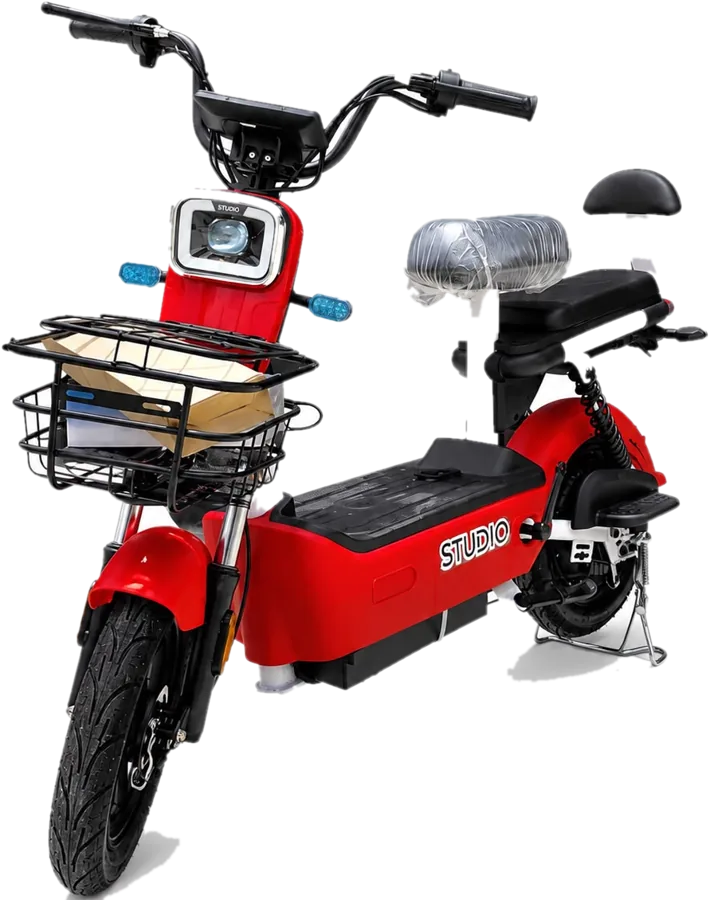
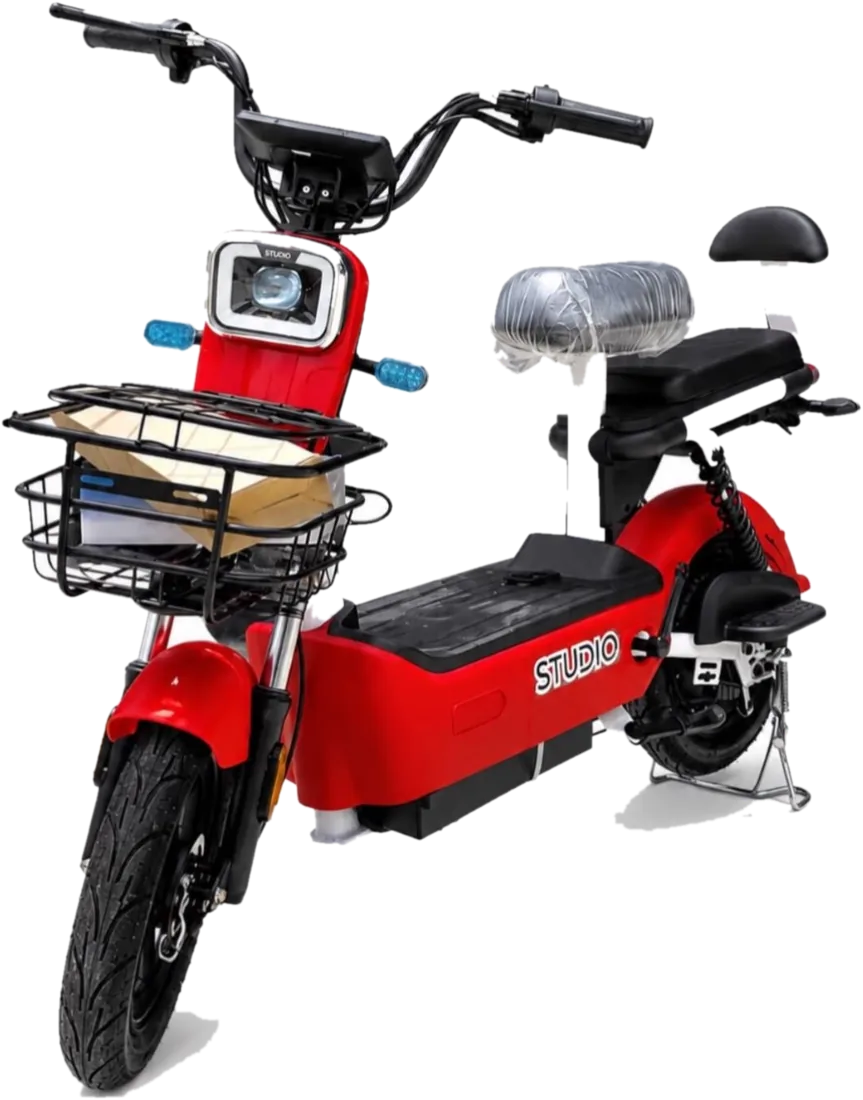
Página pública: fotos de mejor calidad y galería Destacados con los pósters de STUDIO
Claude-Session: https://claude.ai/code/session_01XsqePqNsr899Mjtsv3s8DJ

diff --git a/tienda.html b/tienda.html
@@ -108,6 +108,7 @@ header .btn{height:40px;padding:0 16px;font-size:14px}
 .mini[hidden]{display:none}
 .ctas{display:flex;gap:8px;flex-wrap:wrap}
 .ctas .btn{height:46px;padding:0 18px;font-size:14.5px}
+.ctas .btn[hidden]{display:none}
 .barra-movil{display:none}
 @media (max-width:980px){
   .confianza .wrap{grid-template-columns:1fr 1fr}
@@ -124,6 +125,25 @@ header .btn{height:40px;padding:0 16px;font-size:14px}
   .confianza span{font-size:11.5px}
   .ctas{width:100%}.ctas .btn{flex:1;justify-content:center;padding:0 12px}
 }
+
+/* ── Destacados: pósters publicitarios de STUDIO; cada uno lleva a su artículo ── */
+.destacados{padding:64px 0 24px}
+.destacados .wrap{display:flex;align-items:flex-end;justify-content:space-between;gap:16px;margin-bottom:18px}
+.flechas{display:flex;gap:8px}
+.flechas button{width:42px;height:42px;border-radius:50%;border:1px solid var(--linea2);background:rgba(255,255,255,.03);display:grid;place-items:center;font-size:20px;transition:border-color .2s,background .2s}
+.flechas button:hover{border-color:var(--oro);background:rgba(201,162,39,.1)}
+.carrusel{display:flex;gap:14px;overflow-x:auto;scroll-snap-type:x mandatory;scroll-behavior:smooth;padding:6px 16px 18px;scrollbar-width:none}
+.carrusel::-webkit-scrollbar{display:none}
+@media (min-width:1232px){.carrusel{padding-inline:calc((100vw - 1200px) / 2)}}
+.poster{position:relative;flex:none;width:clamp(230px,24vw,290px);aspect-ratio:720/897;border-radius:18px;overflow:hidden;scroll-snap-align:start;border:1px solid var(--linea);background:var(--panel);box-shadow:0 20px 40px -24px rgba(0,0,0,.8);transition:transform .45s var(--resorte),border-color .3s,box-shadow .3s;text-decoration:none}
+.poster img{width:100%;height:100%;object-fit:cover;transition:transform .8s var(--ease)}
+.poster span{position:absolute;left:12px;right:12px;bottom:12px;display:flex;align-items:center;justify-content:space-between;height:40px;padding:0 14px;border-radius:999px;background:rgba(7,8,10,.72);backdrop-filter:blur(10px);-webkit-backdrop-filter:blur(10px);border:1px solid var(--linea2);font:600 13px var(--sans);color:var(--texto);opacity:0;translate:0 8px;transition:opacity .3s,translate .3s var(--ease)}
+.poster:hover{transform:translateY(-6px);border-color:rgba(201,162,39,.55);box-shadow:0 26px 50px -20px rgba(201,162,39,.35)}
+.poster:hover img{transform:scale(1.04)}
+.poster:hover span,.poster:focus-visible span{opacity:1;translate:0 0}
+@media (hover:none){.poster span{opacity:1;translate:0 0}}
+@media (max-width:620px){.poster{width:72vw}.flechas{display:none}.destacados{padding:48px 0 16px}}
+@media (max-width:620px){.explora .wrap{flex-direction:column;align-items:flex-start}.filtros{flex-wrap:nowrap;overflow-x:auto;max-width:100%;scrollbar-width:none}.filtros button{flex:none}}
 
 /* ── Explora: tira de miniaturas que lleva a cada presentación ── */
 .explora{padding:8px 0 40px}
@@ -335,6 +355,23 @@ footer a:hover{color:var(--texto)}
     </div>
   </section>
 
+  <section class="destacados" aria-labelledby="h-dest">
+    <div class="wrap"><div><span class="eyebrow">Destacados</span><h2 id="h-dest" style="margin-top:10px">Lo nuevo en STUDIO</h2></div>
+      <div class="flechas"><button type="button" data-dir="-1" aria-label="Anterior"><i class="ti ti-chevron-left" aria-hidden="true"></i></button><button type="button" data-dir="1" aria-label="Siguiente"><i class="ti ti-chevron-right" aria-hidden="true"></i></button></div></div>
+    <div class="carrusel" id="carrusel">
+      <a class="poster" href="#p-lq-n9"><img src="img/tienda/destacados/serie1000-blanco-azul.webp" alt="STUDIO · Serie 1000W" width="720" height="897" loading="lazy" decoding="async"><span>Serie 1000W <i class="ti ti-arrow-right" aria-hidden="true"></i></span></a>
+      <a class="poster" href="#p-lq-n9"><img src="img/tienda/destacados/lq-n9-potencia.webp" alt="STUDIO · LQ-N9" width="720" height="897" loading="lazy" decoding="async"><span>LQ-N9 <i class="ti ti-arrow-right" aria-hidden="true"></i></span></a>
+      <a class="poster" href="#p-lq-h8"><img src="img/tienda/destacados/serie1000-rojo.webp" alt="STUDIO · LQ-H8" width="720" height="897" loading="lazy" decoding="async"><span>LQ-H8 <i class="ti ti-arrow-right" aria-hidden="true"></i></span></a>
+      <a class="poster" href="#movilidad"><img src="img/tienda/destacados/serie1000-blanco.webp" alt="STUDIO · Serie 1000W" width="720" height="897" loading="lazy" decoding="async"><span>Serie 1000W <i class="ti ti-arrow-right" aria-hidden="true"></i></span></a>
+      <a class="poster" href="#p-lq-hld"><img src="img/tienda/destacados/lq-hld-muevete.webp" alt="STUDIO · LQ-HLD" width="720" height="897" loading="lazy" decoding="async"><span>LQ-HLD <i class="ti ti-arrow-right" aria-hidden="true"></i></span></a>
+      <a class="poster" href="#p-lq-xbw"><img src="img/tienda/destacados/lq-xbw.webp" alt="STUDIO · LQ-XBW" width="720" height="897" loading="lazy" decoding="async"><span>LQ-XBW <i class="ti ti-arrow-right" aria-hidden="true"></i></span></a>
+      <a class="poster" href="#p-smart-lock-facial"><img src="img/tienda/destacados/smart-lock.webp" alt="STUDIO · Smart Lock" width="720" height="897" loading="lazy" decoding="async"><span>Smart Lock <i class="ti ti-arrow-right" aria-hidden="true"></i></span></a>
+      <a class="poster" href="#p-nevera-cw"><img src="img/tienda/destacados/neveras.webp" alt="STUDIO · Neveras CW" width="720" height="897" loading="lazy" decoding="async"><span>Neveras CW <i class="ti ti-arrow-right" aria-hidden="true"></i></span></a>
+      <a class="poster" href="#p-ventilador-de-techo-42"><img src="img/tienda/destacados/ventilador-cristal.webp" alt="STUDIO · Ventilador cristal" width="720" height="897" loading="lazy" decoding="async"><span>Ventilador cristal <i class="ti ti-arrow-right" aria-hidden="true"></i></span></a>
+      <a class="poster" href="#p-ventilador-de-techo-42"><img src="img/tienda/destacados/ventilador-madera.webp" alt="STUDIO · Ventilador madera" width="720" height="897" loading="lazy" decoding="async"><span>Ventilador madera <i class="ti ti-arrow-right" aria-hidden="true"></i></span></a>
+    </div>
+  </section>
+
   <section id="explora" class="explora" aria-labelledby="h-exp">
     <div class="wrap"><span class="eyebrow" id="h-exp">Explora el catálogo · toca un artículo</span>
       <div class="filtros" role="group" aria-label="Filtrar por categoría" id="filtros"></div></div>
@@ -541,6 +578,7 @@ document.addEventListener('click', e => {
 });
 document.querySelectorAll('.js-wa').forEach(a => { a.href = waLink(a.dataset.msg || 'Hola STUDIO, quiero información'); a.target = '_blank'; a.rel = 'noopener'; });
 document.getElementById('anio').textContent = new Date().getFullYear();
+document.querySelectorAll('.flechas button').forEach(b => b.addEventListener('click', () => { const c = document.getElementById('carrusel'); c.scrollBy({ left: +b.dataset.dir * Math.max(260, c.clientWidth * .8) }); }));
 // «Abierto ahora» con el horario real (lunes a sábado 8:30–6:30, hora de Santo Domingo).
 (function () {
   try {

diff --git a/docs/bitacora/2026-09-25-0545-claude.md b/docs/bitacora/2026-09-25-0545-claude.md
@@ -1,0 +1,44 @@
+# 2026-09-25 05:45 — Página pública: fotos de mejor calidad y galería «Destacados» (Claude)
+
+El dueño mandó tres PDF (Coco_1, Coco_2 y Coco_3, escaneados con CamScanner) con imágenes de mejor
+calidad para reemplazar las anteriores.
+
+## Qué hay en los PDF
+- **Coco_1**: 5 fotos de las monta cargas (azul y roja, varios ángulos; un póster de «2 botellas
+  hidráulicas»).
+- **Coco_2**: 18 fotos de producto sobre blanco puro: los 8 scooters, la nevera, la TV, el aire,
+  las cerraduras y los 4 ventiladores.
+- **Coco_3**: 11 pósters publicitarios de STUDIO:
+  - la serie 1000W frente al Monumento de Santiago;
+  - LQ-N9 «Potencia pura», LQ-XBW «Ahorra más», LQ-HLD «Muévete libre»;
+  - Smart Lock, Refrigeradores, y ventiladores cristal y madera;
+  - una captura de Instagram, que no se usó.
+- El sello «Scanned with CamScanner» es una imagen aparte en cada página: las fotos no lo traen.
+
+## Cambios
+- **Fotos reemplazadas** (sin fondo, con el mismo recorte automático, hasta 1100 px):
+  - los 8 scooters: LQ-N9, H8, ZS, XGW, HLD, PP, XBW y M12 rosa;
+  - las dos monta cargas;
+  - Smart Lock LK0114;
+  - los 4 ventiladores.
+  - Al LQ-XGW se le quitaron 40 px del borde izquierdo antes del recorte.
+- **Se conservan las anteriores**:
+  - **aire** (en la nueva, la unidad blanca se pierde al quitar el fondo blanco);
+  - TV, Smart Lock facial y neveras (las nuevas tienen menos resolución);
+  - M12 blanco y gris (no vienen en los PDF).
+- **Nueva galería «Destacados · Lo nuevo en STUDIO»** después de la franja de confianza: 10
+  pósters (`img/tienda/destacados/*.webp`, 720 px), con flechas en computadora y deslizables en
+  celular. Cada póster lleva a su artículo (el blanco de la serie 1000W, sin modelo identificado,
+  lleva a Movilidad).
+- Arreglo: «Financiarlo» se veía en artículos en camino o agotados; ahora se oculta.
+- En celular los filtros de «Explora» van debajo del título, en una fila deslizable.
+
+## Pruebas
+Playwright en 1280 y 390:
+- los 10 pósters llevan a un artículo que existe;
+- 0 imágenes rotas, 0 «RD$», 0 errores;
+- «Financiarlo» oculto en el LQ-N9 (en camino).
+
+## Estado
+En la rama. **No publicado.** Incluye también el cambio de letra y el botón «Acceso personal» de
+`2026-09-25-0515-claude.md`.
